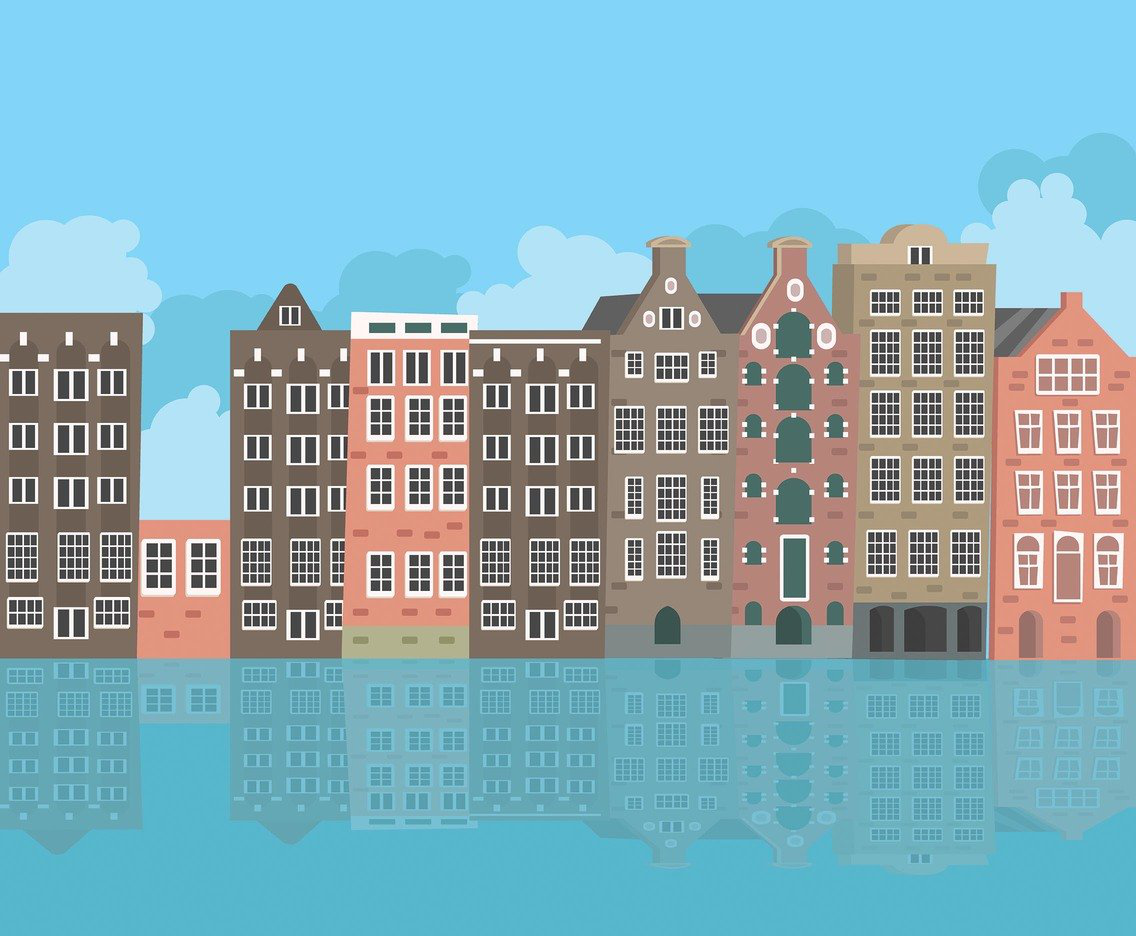
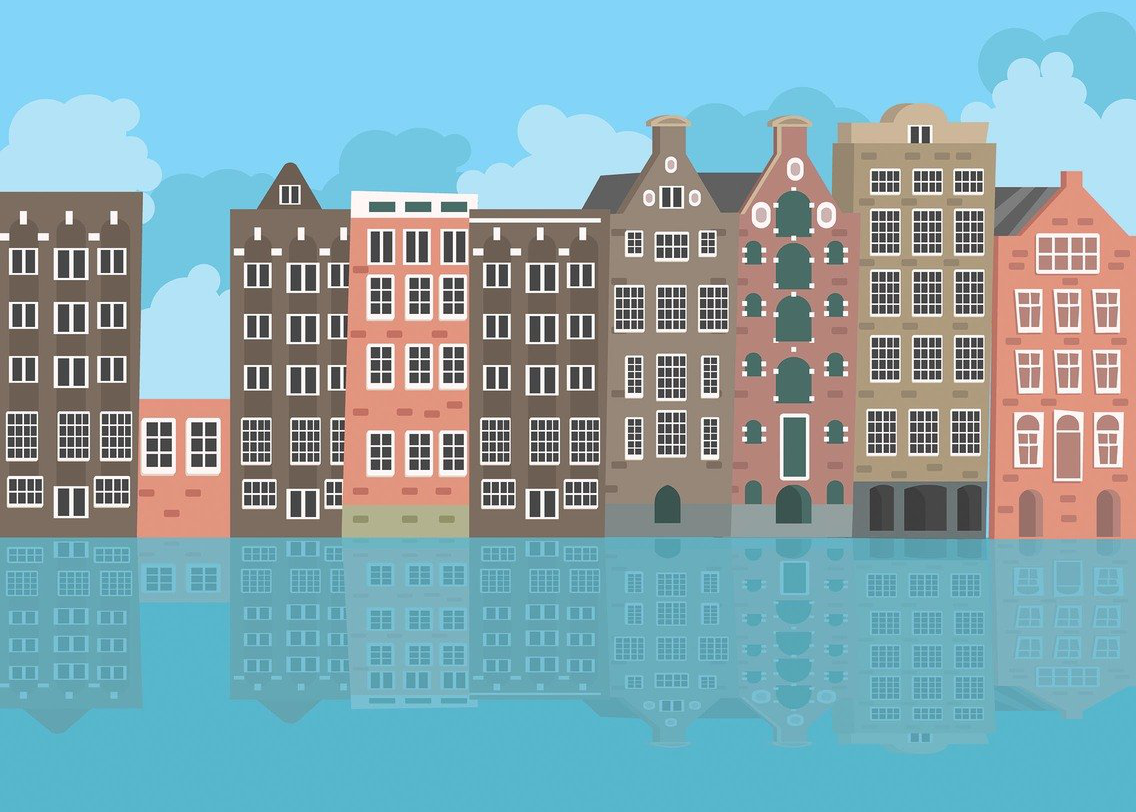
background image animation was added

diff --git a/js/index.js b/js/index.js
@@ -22,10 +22,17 @@ class GameObject {
 class BackgroundImage extends GameObject {
   constructor(x, y, width, height, img) {
     super(x, y, width, height, img);
+    this.speedX = -2
+  }
+  
+  updatePosition() {
+      this.x += this.speedX;
+      this.x %= canvas.width;
   }
 
   draw() {
     ctx.drawImage(this.img, this.x, 0, this.width, this.height);
+    ctx.drawImage(this.img, this.x - canvas.width, 0, this.width, this.height)
   }
 }
 
@@ -33,6 +40,8 @@ class Game {
   constructor(background, player) {
     this.background = background;
     this.player = player;
+    this.frames = 0;
+    this.animationID;
   }
 
   start = () => {
@@ -40,9 +49,13 @@ class Game {
   };
 
   updateGame = () => {
-    //this.clear();
+    this.clear();
 
+    this.background.updatePosition();
     this.background.draw();
+    this.player.draw();
+
+    this.animationID = requestAnimationFrame(this.updateGame);
   };
 
   clear = () => {
@@ -52,7 +65,7 @@ class Game {
 
 function startGame() {
   const bgImg = new Image();
-  bgImg.src = "./images/amsterdam_canal.png";
+  bgImg.src = "./images/amsterdam_canal3.png";
 
   const boatPlayer = new Image();
   boatPlayer.src = "./images/boat_player.png";
@@ -65,7 +78,7 @@ function startGame() {
     bgImg
   );
 
-  const player = new GameObject(canvas.width, 175 - 39, 162, 78, boatPlayer);
+  const player = new GameObject(canvas.width - 780, 390, 150, 100, boatPlayer);
   const game = new Game(backgroundImage, player);
 
   game.start();

diff --git a/index.html b/index.html
@@ -14,11 +14,11 @@
     </div>
 
     <div id="game-board">
-      <canvas id="canvas-board" width="700" height="350"></canvas>
+      <canvas id="canvas-board" width="800" height="600"></canvas>
     </div>
 
     <div>
-        <p class="instruction">Use the up and down arrow to control the boat.</p>
+        <p class="instruction">Use the up and down arrows to control the boat.</p>
         <img src="./images/keyboard_arrow.png" alt="" class="arrows-img" />
         
     </div>
